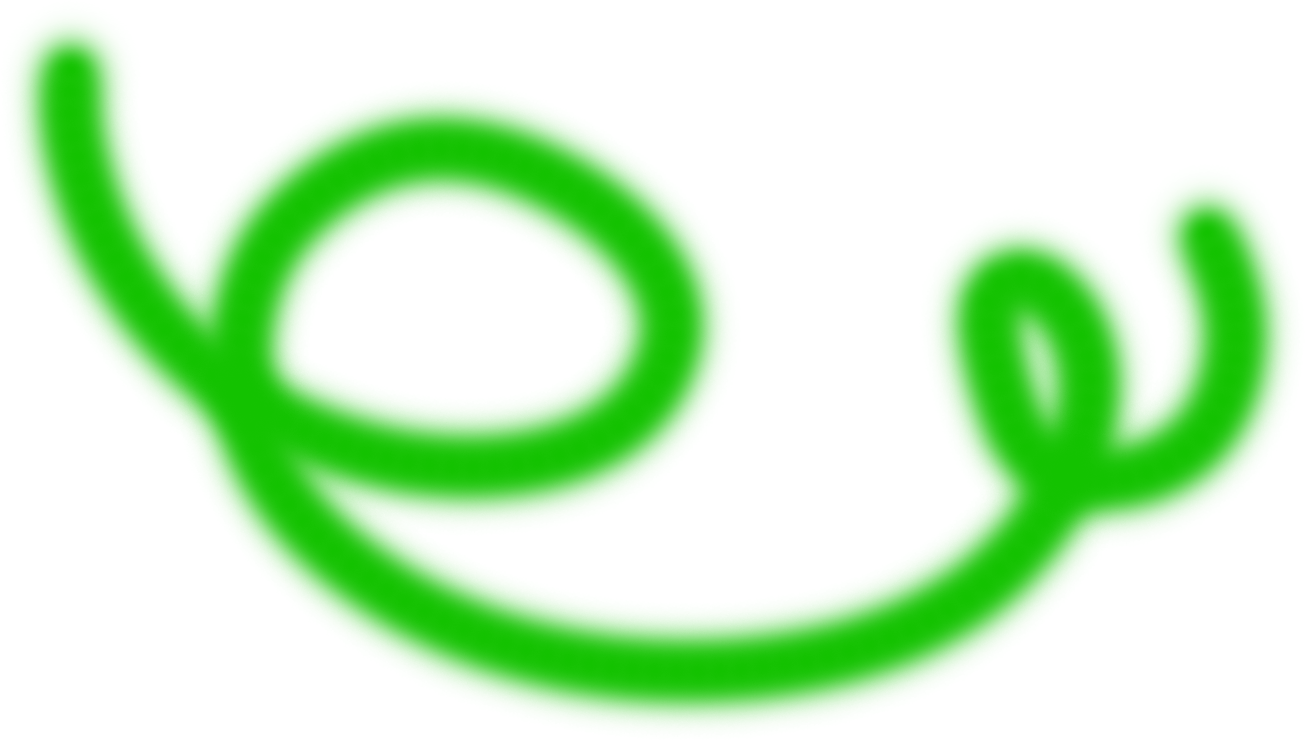
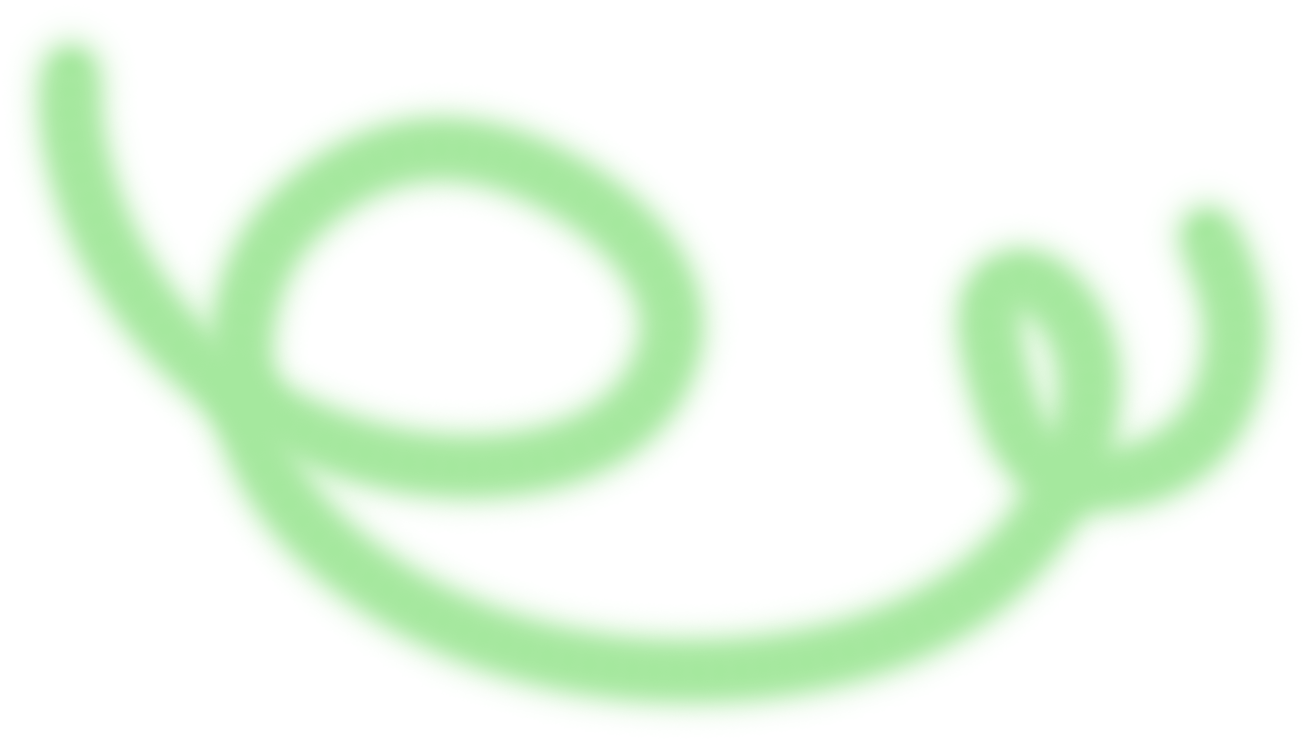
[update]DWORD型から適切にRGBA値を取得することに成功

diff --git a/GLPA/scene2d.cpp b/GLPA/scene2d.cpp
@@ -65,12 +65,30 @@ void Scene2d::update(LPDWORD wndBuffer, int wndWidth, int wndHeight, int wndDpi)
                     ){
                         // wndBuffer[drawPoint + (x+y*wndWidth * wndDpi)] 
                         // = it.second.png.data[x+y*it.second.png.width];
+                        
+                        BYTE red, green, blue, alpha;
+                        red = (it.second.png.data[x+y*it.second.png.width] >> 16) & 0xFF;
+                        green = (it.second.png.data[x+y*it.second.png.width] >> 8) & 0xFF;
+                        blue = it.second.png.data[x+y*it.second.png.width] & 0xFF;
+                        alpha = (it.second.png.data[x+y*it.second.png.width] >> 24) & 0xFF;
 
-                        wndBuffer[drawPoint + (x+y*wndWidth * wndDpi)]
-                        = buffer.alphaBlend(
-                            (DWORD)(it.second.png.data[x+y*it.second.png.width]), 
-                            (DWORD)(wndBuffer[drawPoint + (x+y*wndWidth * wndDpi)])
-                        );
+                        if (alpha != 0x00){
+                            wndBuffer[drawPoint + (x+y*wndWidth * wndDpi)] 
+                            = it.second.png.data[x+y*it.second.png.width];
+
+
+                            // wndBuffer[drawPoint + (x+y*wndWidth * wndDpi)]
+                            // = buffer.alphaBlend(
+                            //     (DWORD)(it.second.png.data[x+y*it.second.png.width]), 
+                            //     (DWORD)(wndBuffer[drawPoint + (x+y*wndWidth * wndDpi)])
+                            // );
+                        }
+
+                        // wndBuffer[drawPoint + (x+y*wndWidth * wndDpi)]
+                        // = buffer.alphaBlend(
+                        //     (DWORD)(it.second.png.data[x+y*it.second.png.width]), 
+                        //     (DWORD)(wndBuffer[drawPoint + (x+y*wndWidth * wndDpi)])
+                        // );
                     }
                 }
             }
